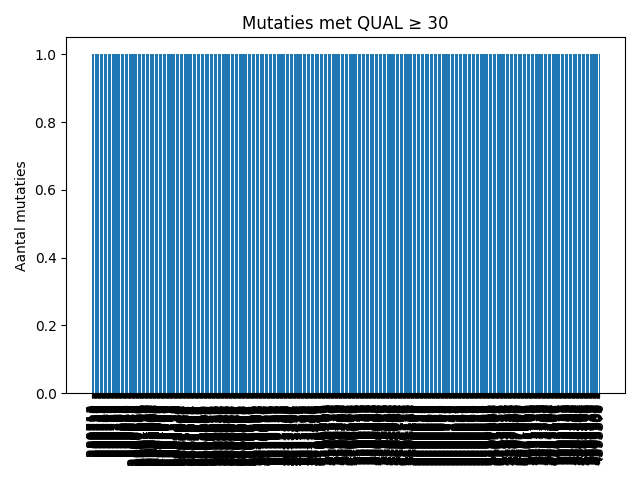
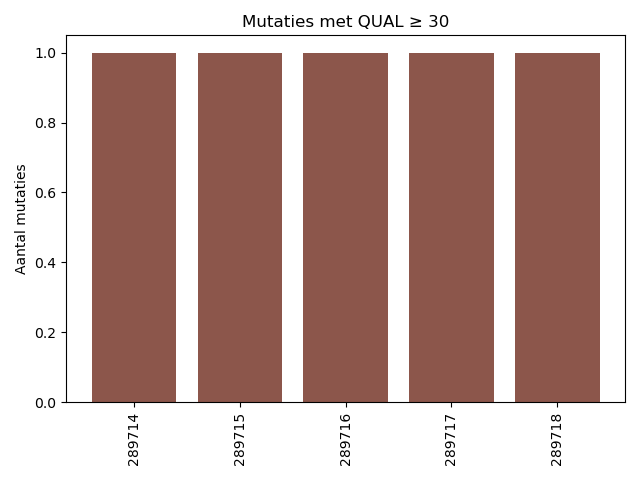
plot

diff --git a/backend.py b/backend.py
@@ -65,16 +65,16 @@ def run(kwargs):
 def lezen_vcf():
     mutaties = {}
     snip_tabel_info = {}
-    with open('output.vcf', 'r') as f:
+    with open('testoutput.vcf', 'r') as f:
         for line in f:
             line = line.strip()
             if line.startswith("#"):
                 continue
             else:
                 splitline = line.split('\t')
-                if splitline[3]:
+                if splitline[4]:
                     qual = splitline[5]
-                    if splitline[4] != '.' and float(qual) >= 30:  # <-- fix here
+                    if splitline[4] != '.':
                         if splitline[1] not in mutaties:
                             mutaties[splitline[1]] = 1
                         else:
@@ -89,4 +89,4 @@ def maken_plot(mutaties):
     plt.ylabel("Aantal mutaties")
     plt.title("Mutaties met QUAL ≥ 30")
     plt.tight_layout()
-    plt.savefig("mutaties.png")
+    plt.savefig("static/mutaties.png")

diff --git a/app.py b/app.py
@@ -8,8 +8,8 @@ app.secret_key = "BINNANPORE"
 
 BASE_DIR = os.path.dirname(os.path.abspath(__file__))
 
-FASTQ_BESTAND = os.path.join(BASE_DIR, "data", "ERR2165898.fastq")
-REFERENCE = os.path.join(BASE_DIR, "data", "GCF_000006945.2_ASM694v2_genomic.fna")
+FASTQ_BESTAND = os.path.join(BASE_DIR, "Data", "ERR2165898.fastq")
+REFERENCE = os.path.join(BASE_DIR, "Data", "reference", "GCF_000006945.2_ASM694v2_genomic.fna")
 
 @app.route('/')
 def input_output_page():
@@ -104,4 +104,4 @@ def output():
     )
 
 if __name__ == '__main__':
-    app.run(debug=True)
+    app.run(debug=True, port=5002)
